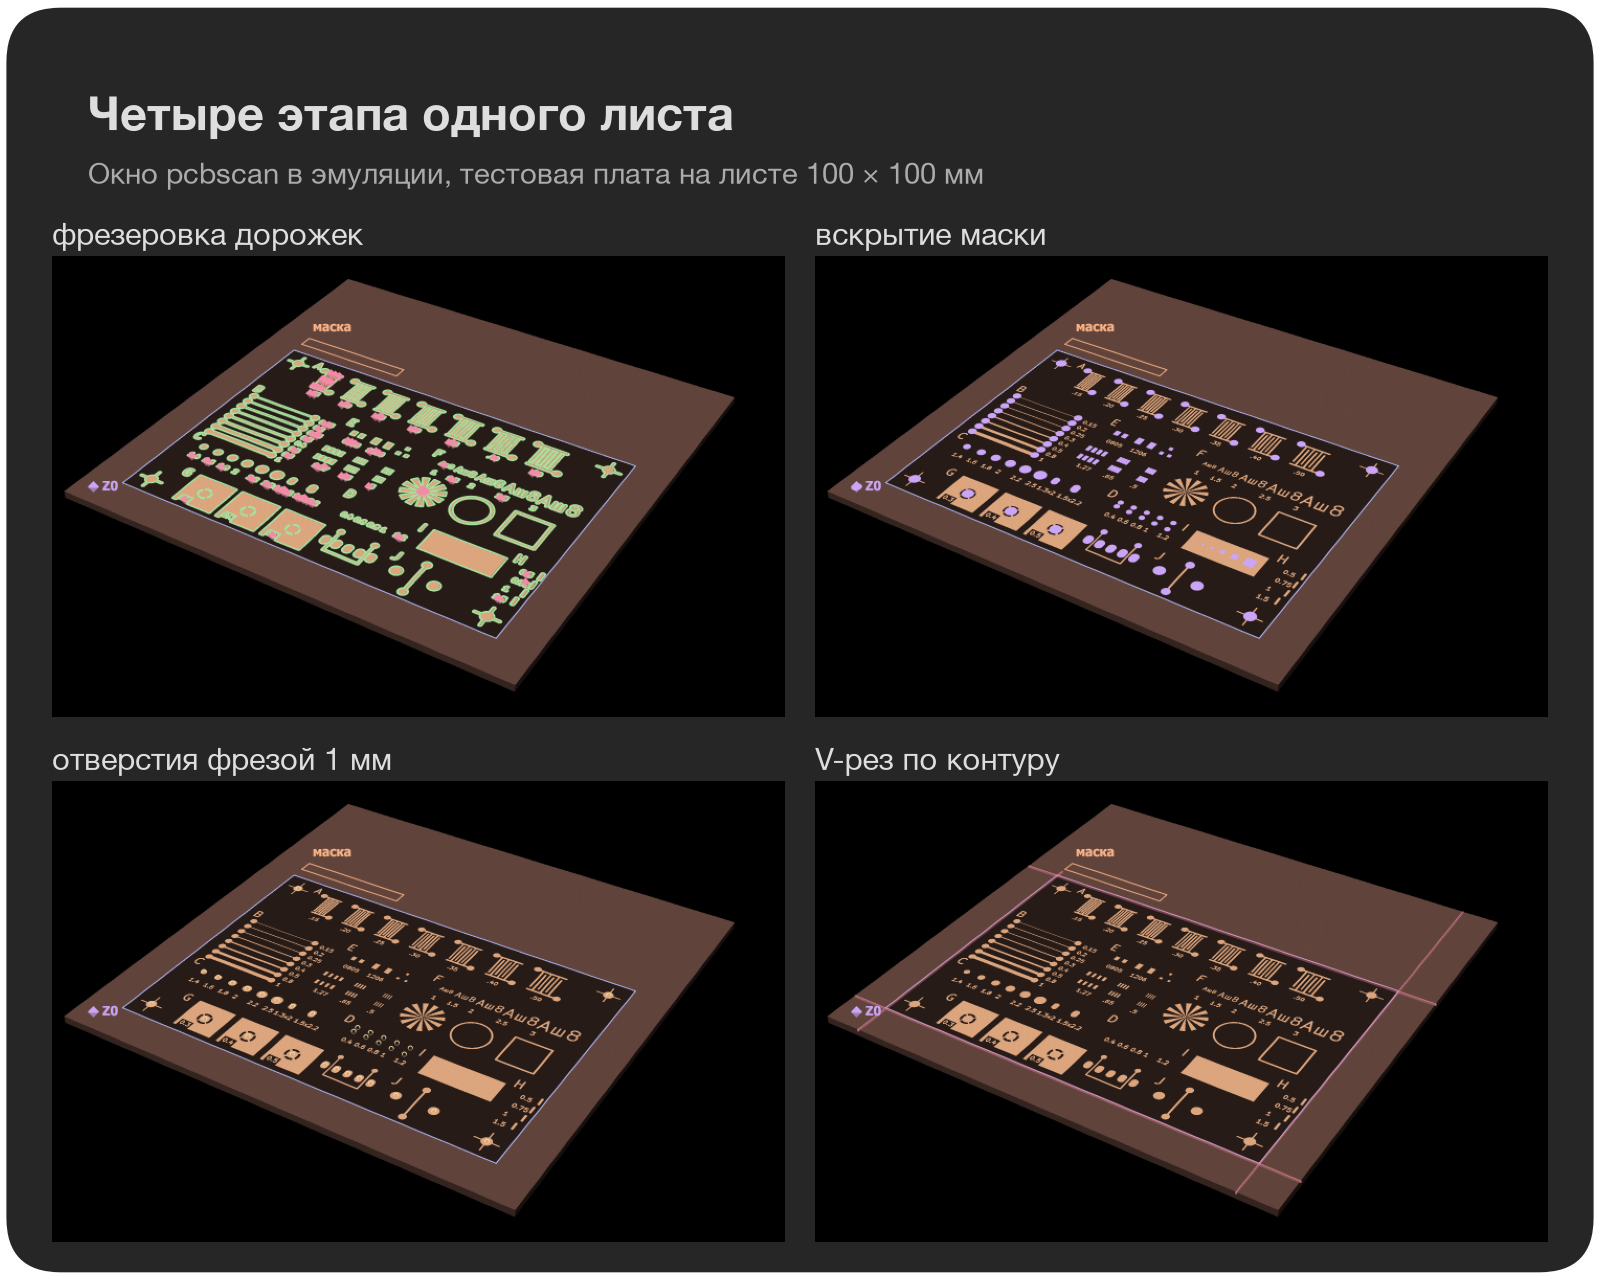
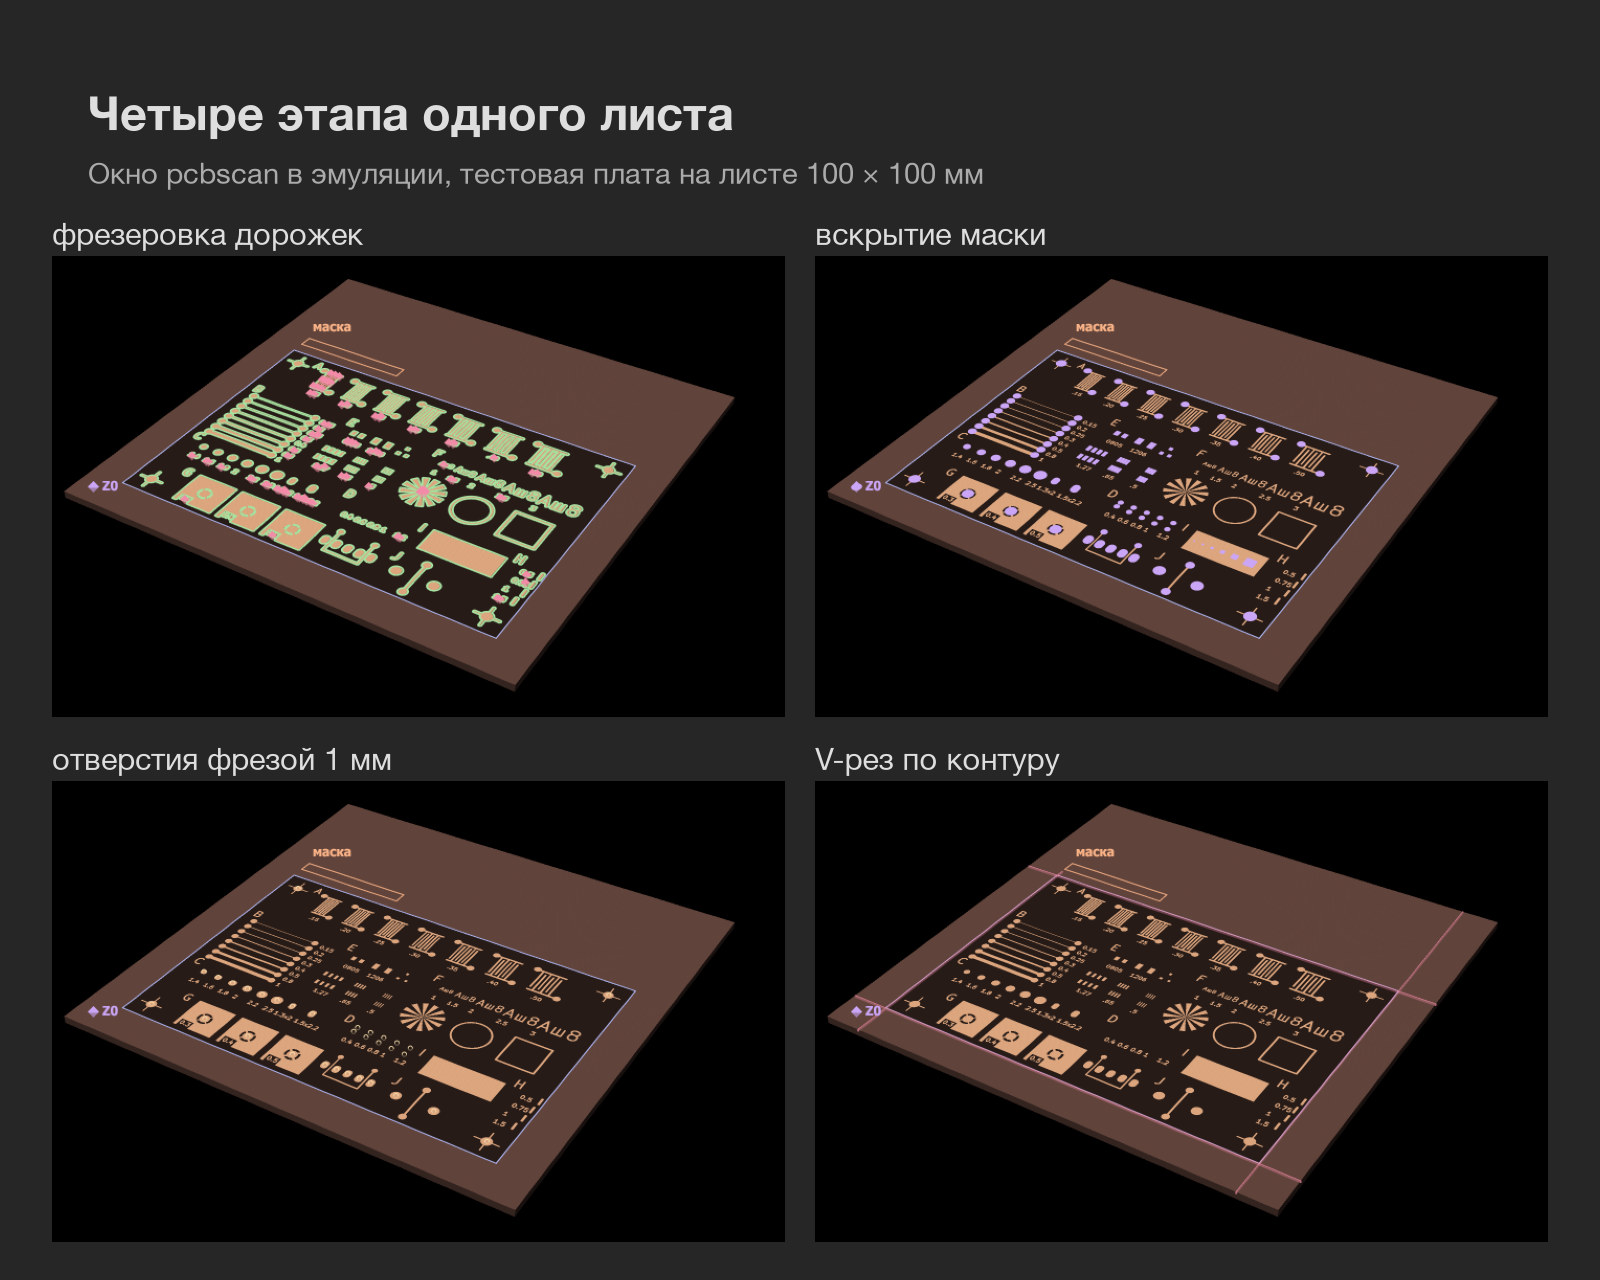
Статья: карточки рисунков залиты до краёв, «51 минуту» в заголовке

Changed region(s): [[0.0, 0.0, 1.0, 1.0]]

diff --git a/docs/article/figures.py b/docs/article/figures.py
@@ -7,9 +7,8 @@ of distances, the isolation passes and the shorts into data/*.json. The rest
 are measurements copied from the notes that recorded them, named next to each
 constant, so the text and the pictures read the same numbers.
 
-Each figure is a self-contained card in Habr's dark colours (#262626) with
-transparent corners: Habr follows the reader's system theme, so the card has
-to sit on white and on near-black alike.
+Each figure is a self-contained card in Habr's dark colours (#262626), filled
+edge to edge.
 
 Run:  make article-figs   ->  docs/article/img/*.png
 
@@ -30,7 +29,6 @@ import matplotlib.pyplot as plt
 import numpy as np
 from matplotlib import font_manager, rcParams
 from matplotlib.colors import LinearSegmentedColormap
-from matplotlib.patches import FancyBboxPatch
 
 HERE = Path(__file__).resolve().parent
 OUT = HERE / "img"
@@ -102,11 +100,7 @@ def ru(v: float, digits: int = 2, strip: bool = True) -> str:
 
 
 def card(height: float, title: str, subtitle: str, legend=()):
-    fig = plt.figure(figsize=(W, height), facecolor="none")
-    fig.patches.append(FancyBboxPatch(
-        (0.004, 0.006), 0.992, 0.988, transform=fig.transFigure, zorder=-10,
-        boxstyle=f"round,pad=0,rounding_size={0.22 / height:.3f}",
-        facecolor=C["card"], edgecolor="none", mutation_aspect=W / height))
+    fig = plt.figure(figsize=(W, height), facecolor=C["card"])
     top = 1 - 0.42 / height
     fig.text(0.055, top, title, fontsize=17, fontweight="bold", va="top")
     fig.text(0.055, top - 0.36 / height, subtitle, fontsize=10.5,
@@ -144,7 +138,7 @@ def bare(ax):
 
 def save(fig, name: str):
     OUT.mkdir(exist_ok=True)
-    fig.savefig(OUT / name, transparent=True)
+    fig.savefig(OUT / name, facecolor=C["card"])
     plt.close(fig)
     print(f"  {name}")
 
@@ -360,7 +354,9 @@ def fig_stages():
     """Where the time of one board goes."""
     h = 3.9
     total = sum(v for _, v in STAGES)
-    fig = card(h, f"Плата за {total} минут работы станка",
+    word = ("минуту" if total % 10 == 1 and total % 100 != 11 else
+            "минуты" if total % 10 in (2, 3, 4) and total % 100 not in (12, 13, 14) else "минут")
+    fig = card(h, f"Плата за {total} {word} работы станка",
                "Тестовая плата 84 × 58 мм, время программ по расчёту. Без смены фрез и карты высот")
     ax = axes(fig, h, 1.25)
     for i, (name, v) in enumerate(reversed(STAGES)):
